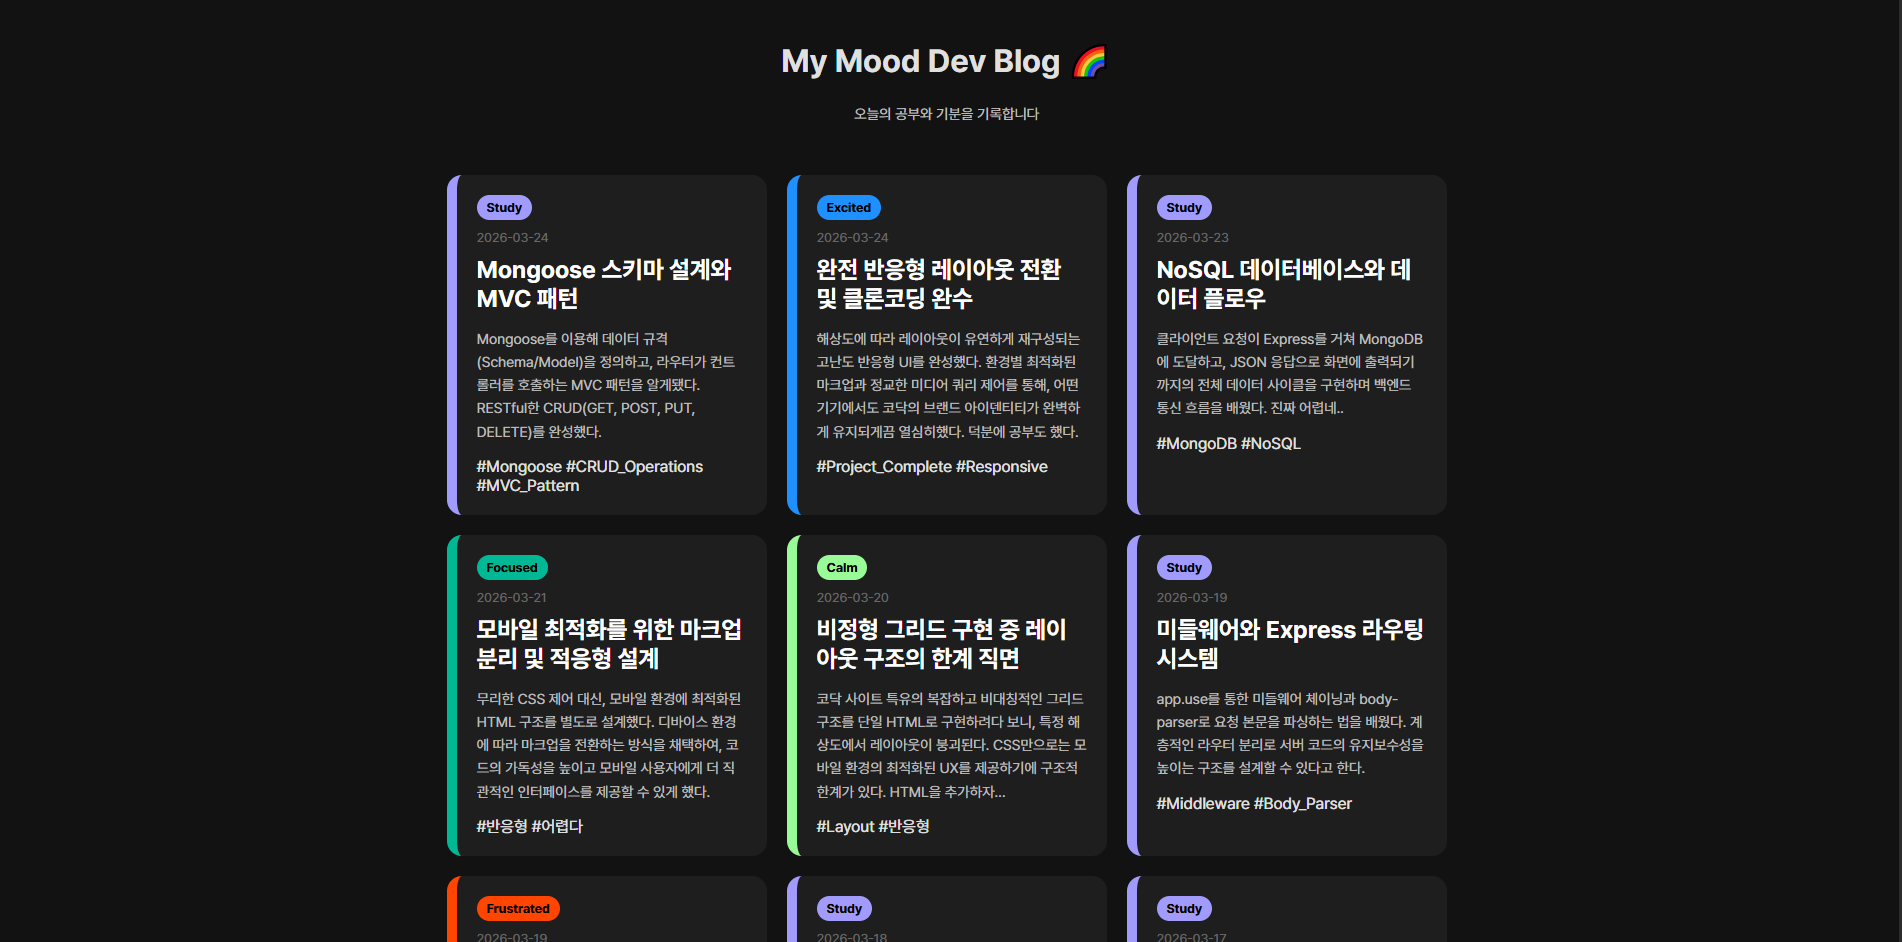
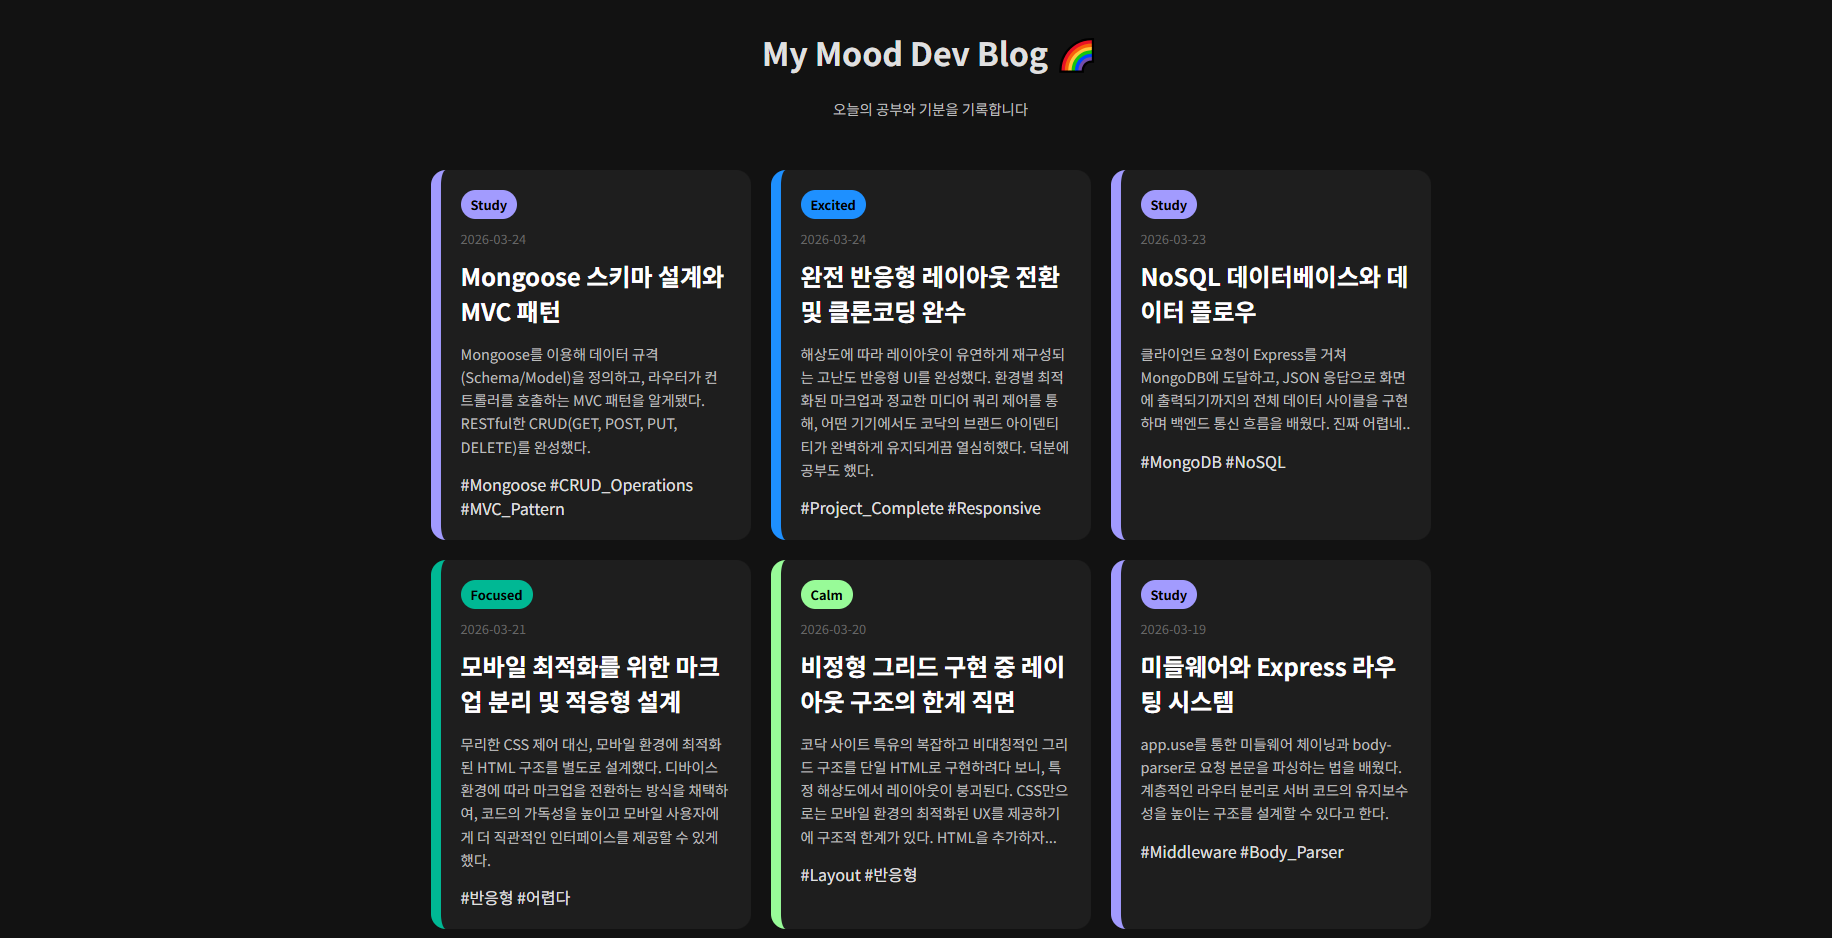
이미지 수정

Changed region(s): [[0.2178, 0.1855, 0.7778, 1.0], [0.9956, 0.0, 1.0, 1.0], [0.4045, 0.0309, 0.5912, 0.1237]]

diff --git a/index.html b/index.html
@@ -226,7 +226,7 @@
                                         6개월 과정 4개월 차에 진행 되었던 프로젝트로,<br>
                                         사용자 입력 기반의 자동차 검색·추천·견적 흐름을 설계하고<br>
                                         백엔드 API 연동을 통해 실제 서비스 형태로 구현했습니다.<br>
-                                        메인 페이지뿐만 아니라 차량 상세, 견적, 비교 등 <br>다양한 서브페이지까지포함하여
+                                        메인 페이지뿐만 아니라 차량 상세, 견적, 관리자페이지 등 <br>다양한 서브페이지까지포함하여
                                         전체 서비스 구조를 완성한 협업 프로젝트입니다.
                                     </p>
                                     <a href="https://leeys169.github.io/403motors/" class="work-link reveal"
